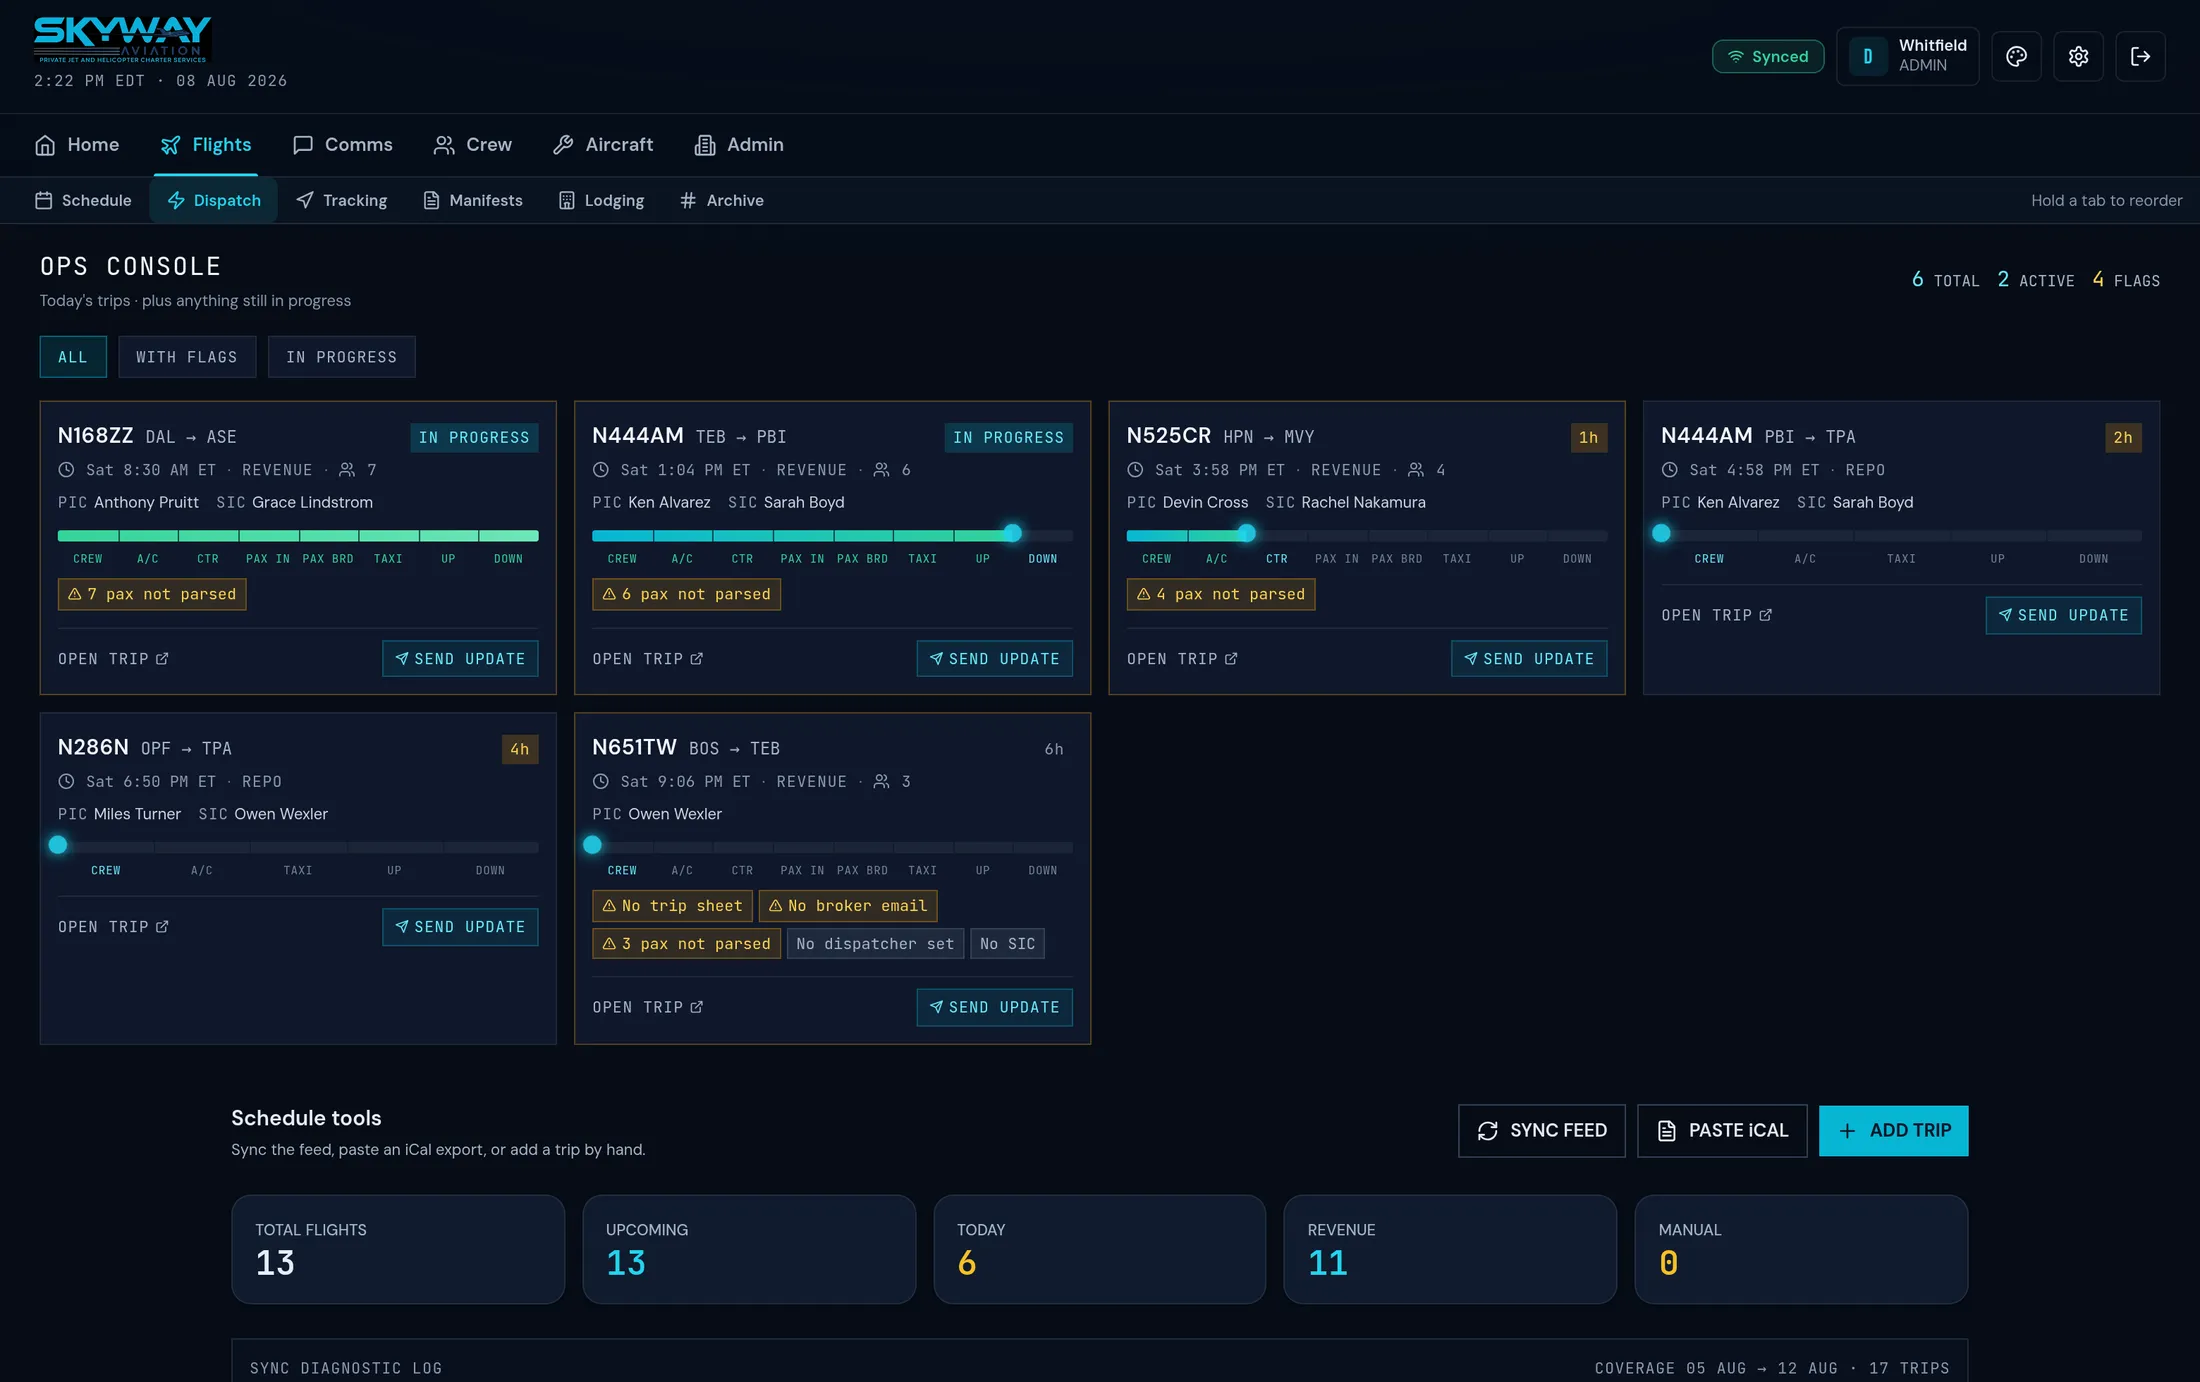
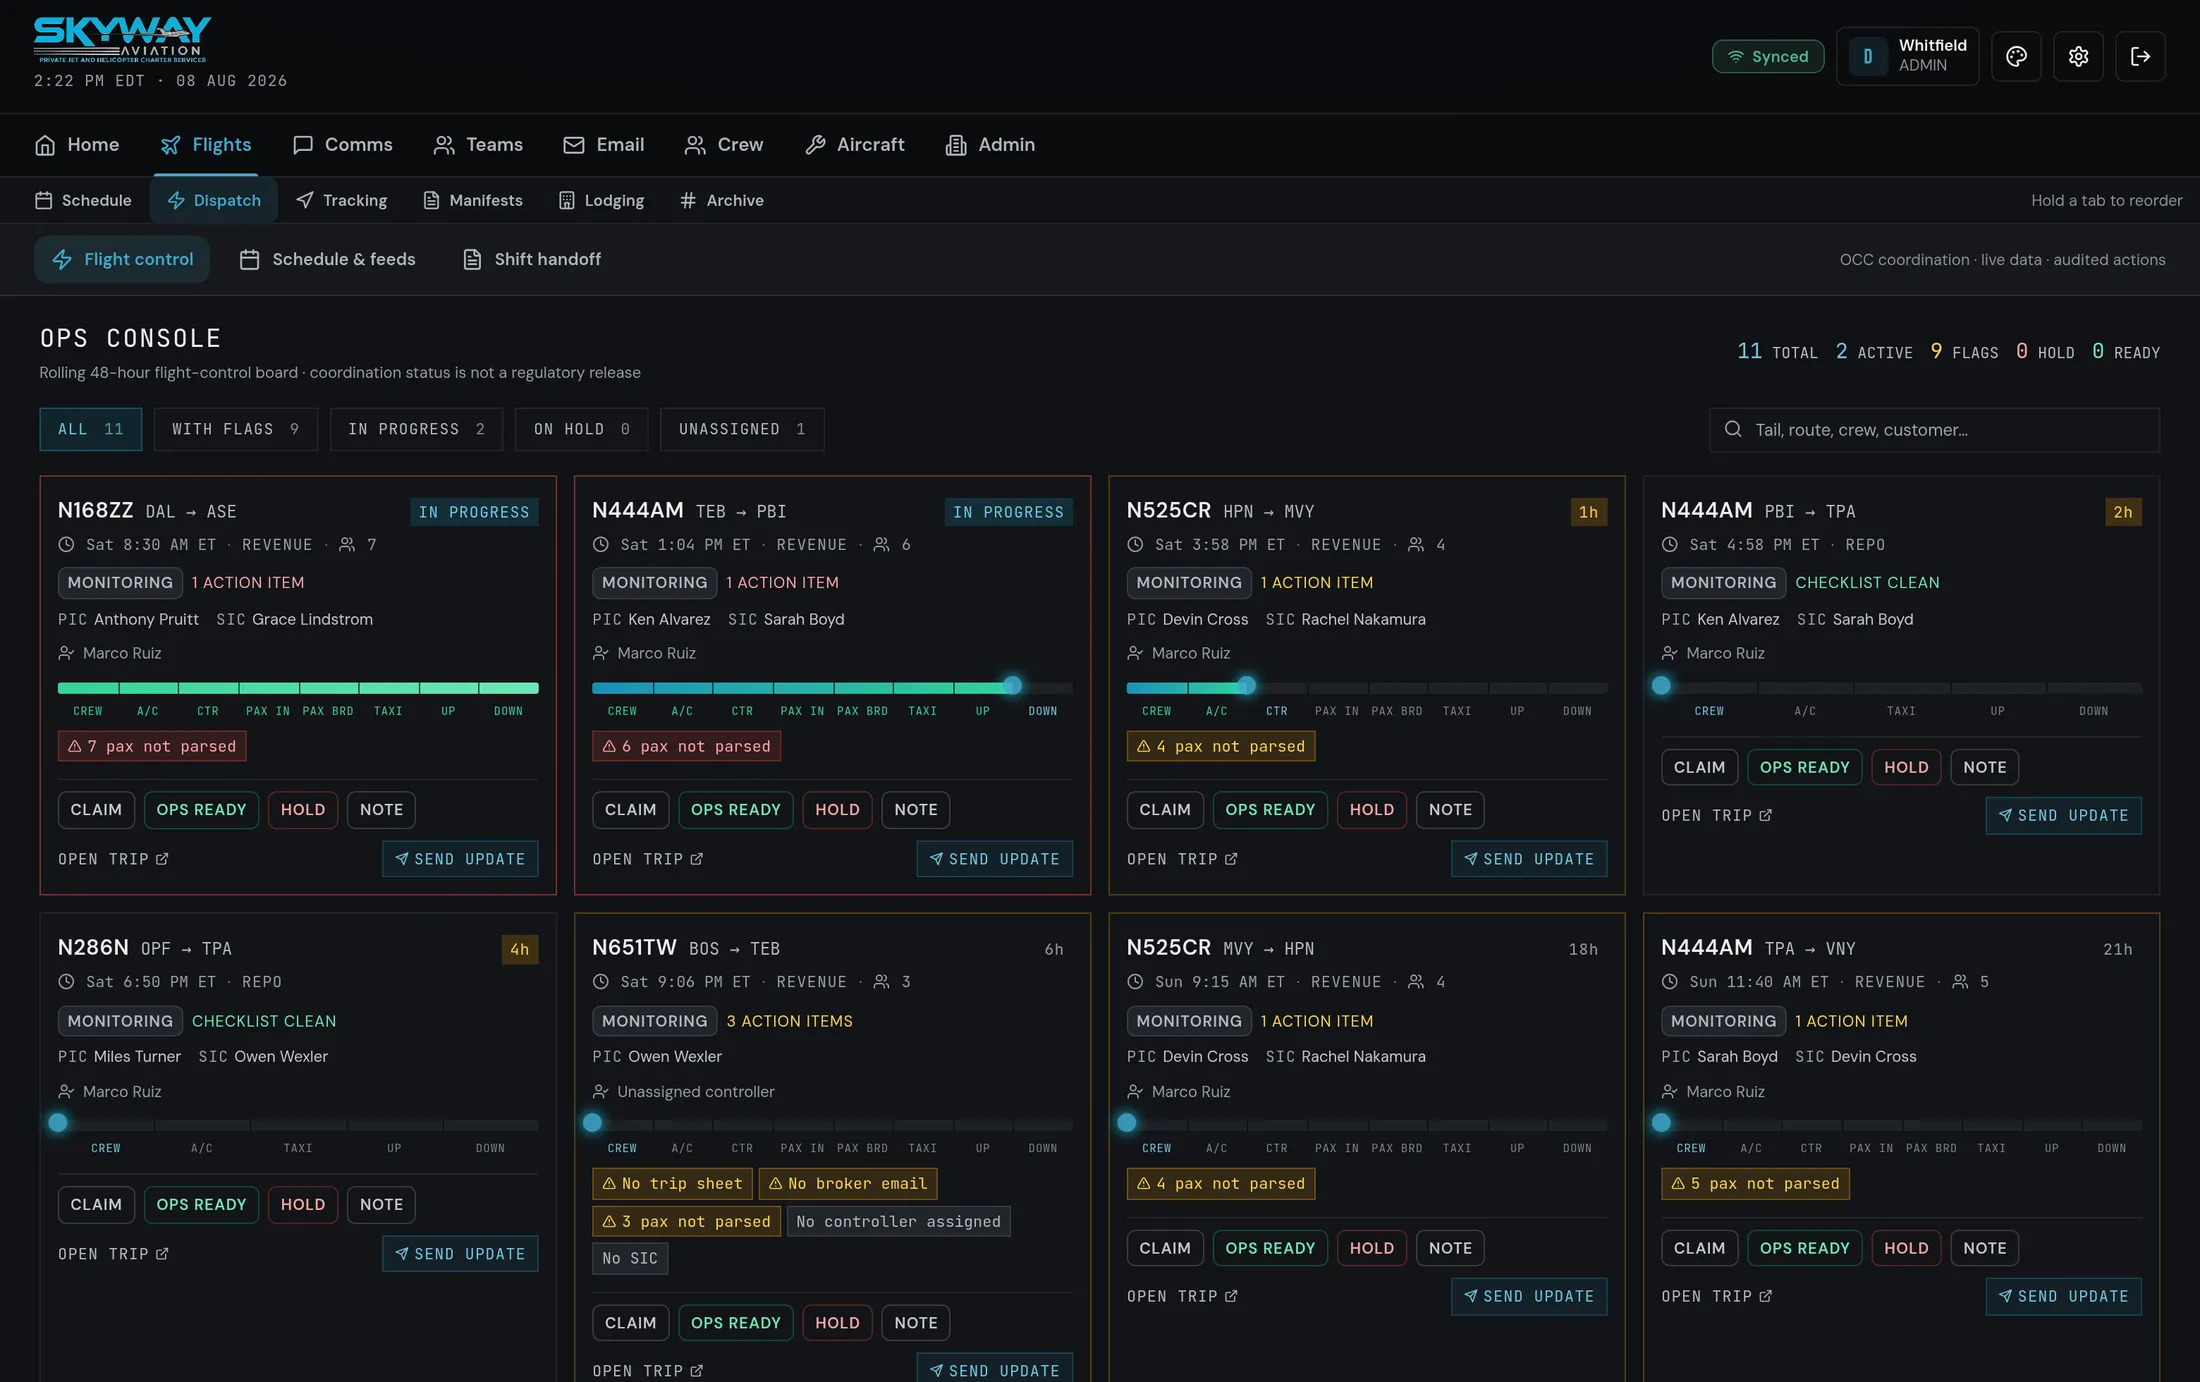
Refresh marketing screenshots from the latest app build
Merge the current operations app first, extend the Firebase auth mock for
its new popup and credential flows, then recapture every desktop and
pilot-mobile screen against that build. The updated assets now show the
new Operations Control dashboard, flight-control handoff actions, Teams
and Email navigation, the current More menu, and the latest pilot flows.

Remove six unused captures so the standalone site only ships assets it
actually displays.

diff --git a/marketing/index.html b/marketing/index.html
@@ -114,7 +114,7 @@
           <div class="frame">
             <div class="frame__bar">
               <span class="frame__dots" aria-hidden="true"><i></i><i></i><i></i></span>
-              <span class="frame__url">app.flyskyway.com — Operations Command Center</span>
+              <span class="frame__url">app.flyskyway.com — Operations Control</span>
             </div>
             <img src="assets/screens/command-center.webp"
                  alt="Skyway Ops command center showing fleet status, block hours, open squawks and a requires-attention panel"
@@ -223,12 +223,13 @@
               <h3>Run the day from one board.</h3>
               <p>
                 The Ops Console pulls today's trips plus anything still in progress into a
-                single card grid, each with a live eight-step status strip. Skyway flags what's
-                missing before it bites — no trip sheet, no broker email, unparsed passengers,
-                no PIC or SIC assigned — and pushes updates straight to the crew's phones.
+                single flight-control board, each with a live eight-step status strip. Dispatchers
+                claim a leg, mark it ops-ready or on hold, leave an audited shift note, and see
+                what's missing before it bites — no trip sheet, no broker email, unparsed
+                passengers, no PIC or SIC assigned.
               </p>
               <ul class="checks">
-                <li>Filters for <b>with flags</b> and <b>in progress</b>, plus totals at a glance</li>
+                <li>Filters for <b>with flags</b>, <b>in progress</b>, <b>on hold</b>, and unassigned legs</li>
                 <li>Schedule syncs from a <b>JetInsight iCal feed</b> or manual entry</li>
                 <li>Send-update pushes to assigned dispatchers via Firebase Cloud Messaging</li>
               </ul>
@@ -390,35 +391,6 @@
             <div class="reg__rule">The Part 135 check cycle</div>
             <p class="reg__detail">Competency checks, instrument proficiency, line checks and recurrent training, with 60/30/14-day alerts.</p>
           </div>
-        </div>
-      </div>
-    </section>
-
-    <!-- ====================================================== DUTY VISUAL -->
-    <section class="section">
-      <div class="shell">
-        <div class="tour__item" data-reveal style="align-items:stretch">
-          <div class="tour__copy" style="align-self:center">
-            <span class="tour__tag">Crew · Command Center</span>
-            <h3>Legality, live on the ops board.</h3>
-            <p>
-              The crew duty board shows who is on duty, resting, available, or approaching a limit
-              in real time — with elapsed duty, seat, and the trailing 7/30/90-day workload for each
-              pilot. Administrators drill into a timeline editor, link PIC and SIC periods, and export
-              the official record without leaving the screen.
-            </p>
-            <ul class="checks">
-              <li>Trailing-window duty and flight-hour aggregates per pilot</li>
-              <li>Illegal periods are flagged but never block a submission — override is audited</li>
-              <li>JetInsight duty history and 24-column currency grids import in bulk</li>
-            </ul>
-          </div>
-          <figure data-lightbox data-caption="Crew duty status board" style="margin:0">
-            <div class="frame">
-              <div class="frame__bar"><span class="frame__dots"><i></i><i></i><i></i></span><span class="frame__url">Home · Crew duty status</span></div>
-              <img src="assets/screens/crew-duty-board.webp" alt="Crew duty status board showing on-duty, resting and available pilots with legality and trailing workload" width="2200" height="1382" loading="lazy" />
-            </div>
-          </figure>
         </div>
       </div>
     </section>
@@ -713,9 +685,9 @@
         </div>
 
         <div class="gallery">
-          <figure data-lightbox data-caption="Operations Command Center — airport weather &amp; crew availability" data-reveal>
-            <img src="assets/screens/command-center-weather.webp" alt="Command center weather grid and crew availability" width="2200" height="1382" loading="lazy" />
-            <figcaption><b>Command Center</b><span>Weather grid &amp; crew availability</span></figcaption>
+          <figure data-lightbox data-caption="Operations Control — live fleet state and ranked exceptions" data-reveal>
+            <img src="assets/screens/command-center.webp" alt="Operations Control showing fleet state, current and next legs, and ranked operational exceptions" width="2200" height="1382" loading="lazy" />
+            <figcaption><b>Operations Control</b><span>Live fleet state &amp; ranked exceptions</span></figcaption>
           </figure>
           <figure data-lightbox data-caption="Passenger manifest with ID verification" data-reveal>
             <img src="assets/screens/trip-passengers.webp" alt="Passenger manifest and ID verification" width="2200" height="1382" loading="lazy" />

diff --git a/tools/screenshot-harness/mock/auth.js b/tools/screenshot-harness/mock/auth.js
@@ -53,6 +53,8 @@ export class OAuthProvider {
 }
 
 export async function signInWithRedirect() {}
+export async function signInWithPopup() { return { user: identity() }; }
+export async function signInWithCredential() { return { user: identity() }; }
 export async function getRedirectResult() { return null; }
 export async function signInWithCustomToken() { return { user: HARNESS_USER }; }
 export async function signOut() {}
